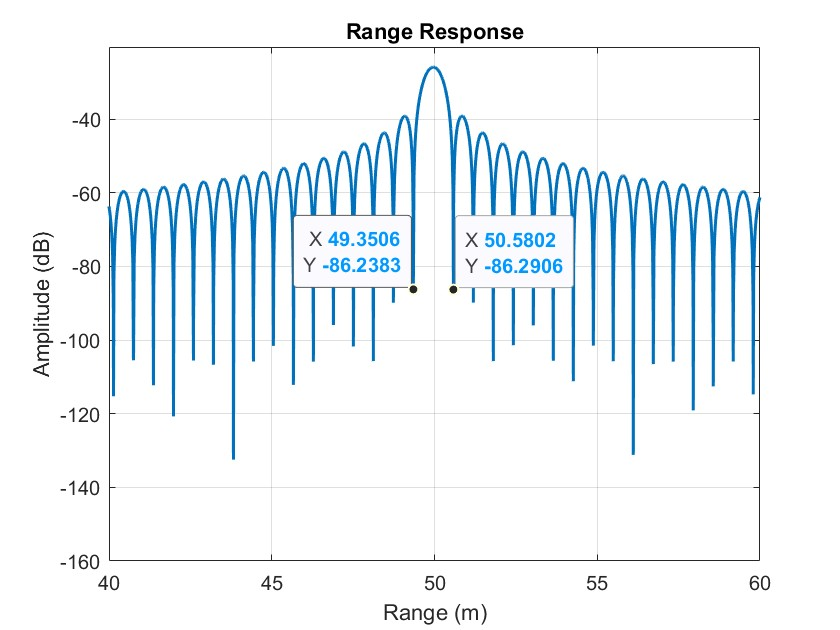
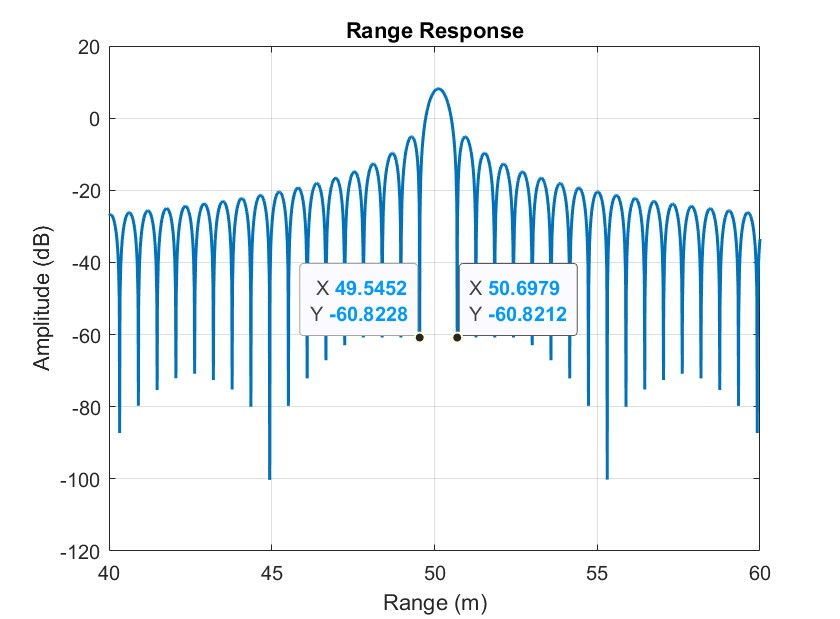
Updating sample rate of JRC system

diff --git a/latex/project_report.tex b/latex/project_report.tex
@@ -774,7 +774,7 @@ Examining the above figure, we find that the mainlobe width is $138.01\ \text{m}
 
 Note that this range resolution is insufficient for automotive radar applications. However, we can design an OFDM system with more bandwidth in the 77 GHz band that will achieve better range resolution. 
 
-For this system, we increase the bandwidth from 10MHz to 300MHz and scale the OFDM parameters by 16. The updated parameters are included in the table below:
+For this system, we increase the bandwidth from 10MHz to 320MHz and scale the OFDM parameters by 32. The updated parameters are included in the table below:
 
 \begin{center}
 \begin{tabular}{|c|c|}
@@ -783,18 +783,18 @@ For this system, we increase the bandwidth from 10MHz to 300MHz and scale the OF
 \hline
 Carrier Frequency & 77 GHz \\
 \hline
-Sample Rate & 300 MHz \\
+Sample Rate & 320 MHz \\
 \hline
-Number of Subcarriers & 16x64\\
+Number of Subcarriers & 32x64\\
 \hline
-Number of Data Carriers & 16x48 + 1 \\
+Number of Data Carriers & 32x48 + 1 \\
 \hline 
-Number of Pilot Carriers & 16x4 \\
+Number of Pilot Carriers & 32x4 \\
 \hline 
 \end{tabular}
 \end{center}
 
-With the updated parameters, the active carriers will have a bandwidth of $300 \text{MHz} \times (52 \times 16 + 1)/(64 \times 16) \approx 244\ \text{MHz}$. This bandwidth should correspond to a range resolution of 0.6142 m. In Figure \ref{fig::802_11p_ofdm_improved_range_response_mainlobe_width}, we measure the mainlobe width of the range response to confirm the updated range resolution.
+With the updated parameters, the active carriers will have a bandwidth of $320 \text{MHz} \times (52 \times 16 + 1)/(64 \times 16) \approx 260\ \text{MHz}$. This bandwidth should correspond to a range resolution of 0.5758 m. In Figure \ref{fig::802_11p_ofdm_improved_range_response_mainlobe_width}, we measure the mainlobe width of the range response to confirm the updated range resolution.
 
 
 \begin{figure}[H]
@@ -804,7 +804,7 @@ With the updated parameters, the active carriers will have a bandwidth of $300 \
 \label{fig::802_11p_ofdm_improved_range_response_mainlobe_width}
 \end{figure}
 
-Referring to the above figure, the mainlobe width is now 1.2296 m, which corresponds to a range resolution of 0.6148 m. It is important to note that this range resolution will further degrade after windowing is applied. However, in general, this is a much more acceptable range resolution for an automotive radar.
+Referring to the above figure, the mainlobe width is now 1.1527 m, which corresponds to a range resolution of 0.5763 m. It is important to note that this range resolution will further degrade after windowing is applied. However, for automotive applications, this is a much more acceptable range resolution than what was provided by the 802.11p radar.
 
 We can also compare the SNR of this system to the SNR of the FMCW radar. As mentioned in Equation (\ref{eq::snr_propto}), the SNR is proportional to the transmit power. For an OFDM system, the transmit power is reduced by the PAPR to ensure the amplifier operates in its linear region. This will lead to an SNR degradation of 11.8 dB with respect to an FMCW radar.
 
@@ -817,10 +817,10 @@ The SNR in the RDM will also be scaled by the signal processing SNR gain ($G_{sp
 where $N$ is the number of subcarriers and $L_{fast}$ is the SNR loss due to the fast-time window. For the given system, with an 80 dB Chebyshev window the fast time SNR gain will be
 
 \begin{equation*}
-	G_{fast} \approx 587.4917
+	G_{fast} \approx 1175.54
 \end{equation*}
 
-Using Equation (\ref{eq::fmcw_fast_time_snr_gain}) with a PRF of $300e6/(80 \times 16) = 234.375\ \text{kHz}$, we compute $734.504$ as the equivalent FMCW SNR gain. Note that FMCW SNR gain is greater than the OFDM Radar SNR gain by approximately $(N + L)/N$. For the specified set of parameters, that works out to be roughly 0.97 dB. Therefore, we expect to the SNR in the RDM to be approximately 13 dB lower for the JRC system than it is for the FMCW radar.
+Using Equation (\ref{eq::fmcw_fast_time_snr_gain}) with a PRF of $320\ \text{MHz}/(80 \times 16) = 125\ \text{kHz}$, we compute $1469.56$ as the equivalent FMCW SNR gain. Note that FMCW SNR gain is greater than the OFDM Radar SNR gain by approximately $(N + L)/N$. For the specified set of parameters, that works out to be roughly 0.97 dB. Therefore, we expect to the SNR in the RDM to be approximately 13 dB lower for the JRC system than it is for the FMCW radar.
 
 which  b other variable in the SNR equation that will change for an OFDM radar is the fast signal processing gain of an OFDM radar is given by 
 
@@ -839,13 +839,13 @@ The previous results were simulated for a target located at 50m. We have increas
 \textbf{ Note: } For an effective presentation, we only display the analysis for signals without the DC Nulls.
 \begin{figure}[H]
 \centering
-\fbox{\includegraphics[width=1\linewidth]{Mix_500-900m}}
+\fbox{\includegraphics[width=1.0\linewidth]{Mix_500-900m}}
 \caption{OFDM/Radar No DC null range plot 500m (left) and 900m (right)}
 \end{figure} 
 To ensure a fair comparison between OFDM and FMCW radar, the PSLR versus range graph is presented. Up to a range of 200 meters, the PSLR remains high at 80 dB, indicating excellent radar detection performance. Beyond 200 meters, the PSLR decreases significantly, and by approximately 1200 meters, the range becomes ambiguous.
 \begin{figure}[H]
 \centering
-\fbox{\includegraphics[width=0.8\linewidth]{OFDMRadar_PSLR vs Range}}
+\fbox{\includegraphics[width=1.0\linewidth]{OFDMRadar_PSLR vs Range}}
 \caption{OFDM/Radar PSLR Measurement vs Range}
 \end{figure} 
 The plot below represents a Range-Doppler Map (RDM), which is a visualization used in radar systems to show the relationship between detected targets' range and relative velocity. A strong return is observed around 100 meters range and close to 50 m/s velocity. This suggests a stationary or slow-moving target with strong radar reflectivity. Other ranges (e.g., 300m, 700m) show some faint signals, but these are significantly weaker compared to the strong reflection near 100m. The resolution along the velocity axis can be further refined to detect smaller velocity variations in moving targets which can addressed by optimizing the OFDM parameter in the next step. 
@@ -857,7 +857,7 @@ The plot below represents a Range-Doppler Map (RDM), which is a visualization us
 The same PSLR vs velocity evaluation was performed for Doppler and is plotted below. It is important to note that, unlike standalone radar, the PSLR is influenced by uncompensated Doppler. The low PSLR values for Doppler make target velocity estimation challenging beyond 200 m/s.
 \begin{figure}[H]
 \centering
-\fbox{\includegraphics[width=0.8\linewidth]{OFDMRadar_PSLR vs Velocity}}
+\fbox{\includegraphics[width=1.0\linewidth]{OFDMRadar_PSLR vs Velocity}}
 \caption{OFDM/Radar PSLR Measurement vs Velocity}
 \end{figure} 
 
@@ -871,13 +871,13 @@ OFDM radar written in MATLAB and configured with the following set of parameters
 \hline
 Carrier Frequency & 77 GHz \\
 \hline
-Sample Rate & 200 MHz \\
+Sample Rate & 320 MHz \\
 \hline
-Number of Subcarriers & 16x64\\
+Number of Subcarriers & 32x64\\
 \hline
-Number of Data Carriers & 16x48 + 1 \\
+Number of Data Carriers & 32x48 + 1 \\
 \hline 
-Number of Pilot Carriers & 16x4 \\
+Number of Pilot Carriers & 32x4 \\
 \hline 
 Number of Pulses & 128 \\
 \hline 
@@ -903,7 +903,7 @@ The RDM results for the given parameters, shown in the graph below, demonstrate 
 \caption{OFDM/Radar RDM Plot}
 \end{figure} 
 
-The parameters for the optimized OFDM yield distinct power spectral density and BER vs. SNR results. As anticipated, the total power density decreases by 20 dB, a direct consequence of the increased number of data carriers, which has been multiplied by a factor of 16 compared to OFDM stand-alone. The measured average signal power for both optimized OFDM/Radar and OFDM stand-alone are in the same range (-13 dB).
+The parameters for the optimized OFDM yield distinct power spectral density and BER vs. SNR results. As anticipated, the total power density decreases by 30 dB, a direct consequence of the increased number of data carriers, which has been multiplied by a factor of 32 compared to OFDM stand-alone. The measured average signal power for both optimized OFDM/Radar and OFDM stand-alone are in the same range (-13 dB).
 
 \begin{figure}[H]
 \centering

diff --git a/code/runOfdmRadar.m b/code/runOfdmRadar.m
@@ -72,18 +72,6 @@ end
 
 figure(1)
 clf;
-<<<<<<< HEAD
-plot(targetVelocity, PSLR_dB, LineWidth=1.5);
-
-
- % Label Plot
-            title('Peak Sidelobe Ratio vs Velocity')
-            %legend('Signal Power', 'Average Power');
-            xlabel('Velocity (m/s)');
-            ylabel('PSLR (dB)');
-             grid on;
-            linewidth(1.5);
-=======
 plot(targetVelocity, PSLR_dB, 'LineWidth', 1.5);
 grid on;
 
@@ -91,7 +79,6 @@ grid on;
 title('Peak Sidelobe Ratio vs Velocity')
 xlabel('Velocity (m/s)')
 ylabel('PSLR (dB)')
->>>>>>> f422779ece9c9e0eb26abd1fca95e6e9cb6ff7ff
 
 %% OFDM Radar PSLR Measurement
 f = 5.9e9;
@@ -118,16 +105,6 @@ end
 
 figure(1)
 clf;
-<<<<<<< HEAD
-plot(targetRange, PSLR_dB, LineWidth=1.5);
-
- % Label Plot
-            title('Peak Sidelobe Ratio vs Range')
-            %legend('Signal Power', 'Average Power');
-            xlabel('Range (m)');
-            ylabel('PSLR (dB)');
-            grid on;
-=======
 plot(targetRange, PSLR_dB, 'LineWidth', 1.5);
 xlim([targetRange(1) targetRange(end)])
 grid on;
@@ -144,7 +121,6 @@ title('Peak Sidelobe Ratio vs Range')
 xlabel('Range (m)')
 ylabel('PSLR (dB)')
 
->>>>>>> f422779ece9c9e0eb26abd1fca95e6e9cb6ff7ff
 %% OFDM Radar (Target at Large Range);
 radar = ofdmRadar(...
     'nDataCarriers', 49,...
@@ -166,11 +142,11 @@ radar = ofdmRadar(...
     'targetVelocity', 0,...
     'rangeOSR', 256,...
     'SNR_dB', 100,...
-    'sampleRate', 300e6,...
-    'nSubcarriers', 16*64,...
-    'nDataCarriers', 16*48+1,...
-    'nPilotCarriers', 16*4,...
-    'cyclicPrefixLen', 16*16,...
+    'sampleRate', 320e6,...
+    'nSubcarriers', 32*64,...
+    'nDataCarriers', 32*48+1,...
+    'nPilotCarriers', 32*4,...
+    'cyclicPrefixLen', 32*16,...
     'autoplacePilots', true,...
     'nullDcSubcarrier', false,...
     'numPulses', 16,...
@@ -183,12 +159,12 @@ radar = ofdmRadar(...
     'carrierFreq', 77e9,...
     'targetRange', 50,...
     'targetVelocity', 50,...
-    'sampleRate', 300e6,...
-    'nSubcarriers', 16*64,...
-    'nDataCarriers', 16*48+1,...
-    'nPilotCarriers', 16*4,...
-    'cyclicPrefixLen', 16*16,...
+    'sampleRate', 320e6,...
+    'nSubcarriers', 32*64,...
+    'nDataCarriers', 32*48+1,...
+    'nPilotCarriers', 32*4,...
+    'cyclicPrefixLen', 32*16,...
     'autoplacePilots', true,...
     'nullDcSubcarrier', false,...
-    'numPulses', 128);
+    'numPulses', 256);
 radar.run();

diff --git a/code/runOfdmModel.m b/code/runOfdmModel.m
@@ -11,13 +11,13 @@ o.run();
 
 %% Run OFDM Model using 802.11a pilots and Rayleigh channel
 o = ofdmModel(...
-    'sampleRate', 200e6,...
-    'nSubcarriers', 16*64,...
-    'nDataCarriers', 16*48+1,...
-    'nPilotCarriers', 16*4,...
+    'sampleRate', 320e6,...
+    'nSubcarriers', 32*64,...
+    'nDataCarriers', 32*48+1,...
+    'nPilotCarriers', 32*4,...
     'autoplacePilots', true,...
     'nullDcSubcarrier', false,...
-    'nSymbols', 1e5,...
+    'nSymbols', 1e4,...
     'enRayleighFading', false,...
     'eqAlgorithm', 'mmse');
 o.run();
